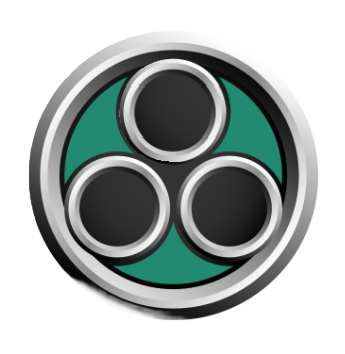
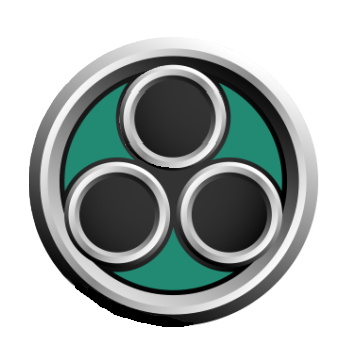
Resize some images, changed a few small UI elements.

diff --git a/lib/screens/counter_screen.dart b/lib/screens/counter_screen.dart
@@ -294,70 +294,104 @@ class _CounterScreenState extends State<CounterScreen> with TickerProviderStateM
   }
 
   Widget _buildFirstTurnChooser() {
-    return Container(
-      color: Colors.black.withValues(alpha: 0.85),
-      child: Center(
-        child: Column(
-          mainAxisSize: MainAxisSize.min,
-          children: [
-            // Player 1 "Go First" — rotated 180°
-            RotatedBox(
-              quarterTurns: 2,
+  return Container(
+    color: Colors.black.withValues(alpha: 0.85),
+    child: Center(
+      child: Column(
+        mainAxisSize: MainAxisSize.min,
+        children: [
+          // Player 1 "Go First" — rotated 180°
+          RotatedBox(
+            quarterTurns: 2,
+            child: SizedBox(
+              width: 300,
               child: ElevatedButton(
                 onPressed: () => _onFirstTurnDirectChoice(0),
                 style: ElevatedButton.styleFrom(
-                  backgroundColor: Colors.green,
-                  padding: EdgeInsets.symmetric(horizontal: 32, vertical: 16),
+                  backgroundColor: const Color.fromARGB(255, 60, 143, 63),
+                  padding: EdgeInsets.symmetric(horizontal: 16, vertical: 16),
                 ),
                 child: Text.rich(
                   TextSpan(children: [
                     TextSpan(text: '${widget.playerNames[0]}\n'),
                     TextSpan(text: 'Goes First'),
                   ]),
-                  style: TextStyle(fontSize: 20, color: Colors.white, fontWeight: FontWeight.bold),
                   textAlign: TextAlign.center,
+                  softWrap: true,
+                  style: TextStyle(
+                    fontSize: 20,
+                    color: Colors.white,
+                    fontWeight: FontWeight.bold,
+                  ),
                 ),
               ),
             ),
-            SizedBox(height: 32),
-            // Dice button — center
-            ElevatedButton(
+          ),
+
+          SizedBox(height: 32),
+
+          // Dice button — center
+          SizedBox(
+            width: 220,
+            child: ElevatedButton(
               onPressed: _showDiceRoll,
               style: ElevatedButton.styleFrom(
                 backgroundColor: Colors.grey[700],
-                padding: EdgeInsets.symmetric(horizontal: 32, vertical: 16),
+                padding: EdgeInsets.symmetric(horizontal: 16, vertical: 16),
               ),
               child: Row(
-                mainAxisSize: MainAxisSize.min,
+                mainAxisAlignment: MainAxisAlignment.center,
                 children: [
                   Icon(Icons.casino, color: Colors.white, size: 28),
                   SizedBox(width: 12),
-                  Text('Roll Dice', style: TextStyle(fontSize: 20, color: Colors.white, fontWeight: FontWeight.bold)),
+                  Flexible(
+                    child: Text(
+                      'Roll Dice',
+                      textAlign: TextAlign.center,
+                      softWrap: true,
+                      style: TextStyle(
+                        fontSize: 20,
+                        color: Colors.white,
+                        fontWeight: FontWeight.bold,
+                      ),
+                    ),
+                  ),
                 ],
               ),
             ),
-            SizedBox(height: 32),
-            // Player 2 "Go First" — normal orientation
-            ElevatedButton(
+          ),
+
+          SizedBox(height: 32),
+
+          // Player 2 "Go First" — normal orientation
+          SizedBox(
+            width: 300,
+            child: ElevatedButton(
               onPressed: () => _onFirstTurnDirectChoice(1),
               style: ElevatedButton.styleFrom(
-                backgroundColor: Colors.green,
-                padding: EdgeInsets.symmetric(horizontal: 32, vertical: 16),
+                backgroundColor: const Color.fromARGB(255, 60, 143, 63),
+                padding: EdgeInsets.symmetric(horizontal: 16, vertical: 16),
               ),
               child: Text.rich(
-                  TextSpan(children: [
-                    TextSpan(text: '${widget.playerNames[1]}\n'),
-                    TextSpan(text: 'Goes First'),
-                  ]),
-                  style: TextStyle(fontSize: 20, color: Colors.white, fontWeight: FontWeight.bold),
-                  textAlign: TextAlign.center,
+                TextSpan(children: [
+                  TextSpan(text: '${widget.playerNames[1]}\n'),
+                  TextSpan(text: 'Goes First'),
+                ]),
+                textAlign: TextAlign.center,
+                softWrap: true,
+                style: TextStyle(
+                  fontSize: 20,
+                  color: Colors.white,
+                  fontWeight: FontWeight.bold,
                 ),
+              ),
             ),
-          ],
-        ),
+          ),
+        ],
       ),
-    );
-  }
+    ),
+  );
+}
 
   @override
   void dispose() {
@@ -708,11 +742,21 @@ class _CounterScreenState extends State<CounterScreen> with TickerProviderStateM
                 if (hasTriggering) Icon(Icons.flash_on, size: 12, color: Colors.amber),
                 Padding(
                   padding: EdgeInsets.symmetric(horizontal: 2),
-                  child: Text(_categoryNames[cat] ?? '', style: TextStyle(fontSize: 10, fontWeight: FontWeight.bold, color: Colors.white), textAlign: TextAlign.center, maxLines: 1, overflow: TextOverflow.ellipsis),
+                  child: Stack(
+                    children: [
+                      Text(_categoryNames[cat] ?? '', style: TextStyle(fontSize: 14, fontWeight: FontWeight.bold, foreground: Paint()..style = PaintingStyle.stroke..strokeWidth = 1.5..color = Colors.black), textAlign: TextAlign.center, maxLines: 1, overflow: TextOverflow.ellipsis),
+                      Text(_categoryNames[cat] ?? '', style: TextStyle(fontSize: 14, fontWeight: FontWeight.bold, color: Colors.white), textAlign: TextAlign.center, maxLines: 1, overflow: TextOverflow.ellipsis),
+                    ],
+                  ),
                 ),
                 Expanded(
                   child: Center(
-                    child: Text('$count', style: TextStyle(fontSize: 24, fontWeight: FontWeight.bold, color: Colors.white)),
+                    child: Stack(
+                      children: [
+                        Text('$count', style: TextStyle(fontSize: 24, fontWeight: FontWeight.bold, foreground: Paint()..style = PaintingStyle.stroke..strokeWidth = 2..color = Colors.black)),
+                        Text('$count', style: TextStyle(fontSize: 24, fontWeight: FontWeight.bold, color: Colors.white)),
+                      ],
+                    ),
                   ),
                 ),
               ],
@@ -879,13 +923,18 @@ class _CounterScreenState extends State<CounterScreen> with TickerProviderStateM
                             }
                           }
                         }); },
-                        child: Center(child: Text('-', style: TextStyle(fontSize: 22, fontWeight: FontWeight.bold, color: Colors.white, fontFamily: 'InterExtraBold'))),
+                        child: Center(child: Stack(children: [
+                          Text('-', style: TextStyle(fontSize: 22, fontWeight: FontWeight.bold, fontFamily: 'Inter', foreground: Paint()..style = PaintingStyle.stroke..strokeWidth = 2..color = Colors.black)),
+                          Text('-', style: TextStyle(fontSize: 22, fontWeight: FontWeight.bold, color: Colors.white, fontFamily: 'Inter')),
+                        ])),
                       ),
                     ),
                     // Center: count/health
-                    Text(
-                      '$displayValue',
-                      style: TextStyle(fontSize: 24, fontWeight: FontWeight.w900, color: Colors.white, fontFamily: 'Inter'),
+                    Stack(
+                      children: [
+                        Text('$displayValue', style: TextStyle(fontSize: 24, fontWeight: FontWeight.w900, fontFamily: 'Inter', foreground: Paint()..style = PaintingStyle.stroke..strokeWidth = 2..color = Colors.black)),
+                        Text('$displayValue', style: TextStyle(fontSize: 24, fontWeight: FontWeight.w900, color: Colors.white, fontFamily: 'Inter')),
+                      ],
                     ),
                     // Right half: add
                     Expanded(
@@ -904,7 +953,10 @@ class _CounterScreenState extends State<CounterScreen> with TickerProviderStateM
                             }
                           }
                         }); },
-                        child: Center(child: Text('+', style: TextStyle(fontSize: 22, fontWeight: FontWeight.bold, color: Colors.white, fontFamily: 'InterExtraBold'))),
+                        child: Center(child: Stack(children: [
+                          Text('+', style: TextStyle(fontSize: 22, fontWeight: FontWeight.bold, fontFamily: 'Inter', foreground: Paint()..style = PaintingStyle.stroke..strokeWidth = 2..color = Colors.black)),
+                          Text('+', style: TextStyle(fontSize: 22, fontWeight: FontWeight.bold, color: Colors.white, fontFamily: 'Inter')),
+                        ])),
                       ),
                     ),
                   ],
@@ -1240,10 +1292,13 @@ class _CounterScreenState extends State<CounterScreen> with TickerProviderStateM
         children: [
           // Pitch icon background
           Positioned.fill(
-            child: Image.asset(
-              pitchIconPath,
-              fit: BoxFit.cover,
+            child: Transform.scale(
+              scale: 1.3,
+              child: Image.asset(
+                pitchIconPath,
+                fit: BoxFit.contain,
               errorBuilder: (c, e, s) => Container(color: Colors.black.withValues(alpha: 0.5)),
+              ),
             ),
           ),
           // Dark overlay
@@ -1261,15 +1316,24 @@ class _CounterScreenState extends State<CounterScreen> with TickerProviderStateM
             children: [
               GestureDetector(
                 onTap: () { if (_playerPitch[playerIndex] > 0) setState(() { _playerPitch[playerIndex]--; }); },
-                child: Icon(Icons.remove, size: iconSize, color: pitchColor),
-              ),
-              Padding(
-                padding: EdgeInsets.symmetric(horizontal: 4),
-                child: Text('${_playerPitch[playerIndex]}', style: TextStyle(fontSize: numSize, fontWeight: FontWeight.bold, color: pitchColor, height: 1.0)),
-              ),
-              GestureDetector(
-                onTap: () { if (_playerPitch[playerIndex] < 99) setState(() { _playerPitch[playerIndex]++; }); },
-                child: Icon(Icons.add, size: iconSize, color: pitchColor),
+                child: Stack(children: [
+                Icon(Icons.remove, size: iconSize, color: Colors.black),
+                Icon(Icons.remove, size: iconSize, color: pitchColor),
+              ]),
+            ),
+            Padding(
+              padding: EdgeInsets.symmetric(horizontal: 4),
+              child: Stack(children: [
+                Text('${_playerPitch[playerIndex]}', style: TextStyle(fontSize: numSize, fontWeight: FontWeight.bold, height: 1.0, foreground: Paint()..style = PaintingStyle.stroke..strokeWidth = 2..color = Colors.black)),
+                Text('${_playerPitch[playerIndex]}', style: TextStyle(fontSize: numSize, fontWeight: FontWeight.bold, color: pitchColor, height: 1.0)),
+              ]),
+            ),
+            GestureDetector(
+              onTap: () { if (_playerPitch[playerIndex] < 99) setState(() { _playerPitch[playerIndex]++; }); },
+              child: Stack(children: [
+                Icon(Icons.add, size: iconSize, color: Colors.black),
+                Icon(Icons.add, size: iconSize, color: pitchColor),
+              ]),
               ),
             ],
           ),
@@ -1644,7 +1708,7 @@ class _InlineTokenPickerState extends State<_InlineTokenPicker> {
           scrollDirection: Axis.horizontal,
           child: Row(children: [
             for (var c in [TokenCategory.boonAura, TokenCategory.debuffAura, TokenCategory.item, TokenCategory.ally])
-              Padding(padding: EdgeInsets.only(right: 4), child: FilterChip(label: Text(catNames[c] ?? '', style: TextStyle(fontSize: 11)), selected: selectedCategories.contains(c), showCheckmark: false, onSelected: (_) { setState(() { selectedCategories.contains(c) ? selectedCategories.remove(c) : selectedCategories.add(c); }); }, visualDensity: VisualDensity.compact)),
+              Padding(padding: EdgeInsets.only(right: 4), child: FilterChip(label: Text(catNames[c] ?? '', style: TextStyle(fontSize: 14)), selected: selectedCategories.contains(c), showCheckmark: false, onSelected: (_) { setState(() { selectedCategories.contains(c) ? selectedCategories.remove(c) : selectedCategories.add(c); }); }, visualDensity: VisualDensity.compact)),
           ]),
         ),
         SizedBox(height: 6),

diff --git a/lib/screens/widgets/dice_overlay.dart b/lib/screens/widgets/dice_overlay.dart
@@ -82,13 +82,13 @@ class _DiceOverlayState extends State<DiceOverlay> {
       children: [
         ElevatedButton(
           onPressed: () => widget.onChoice(_winner, true),
-          style: ElevatedButton.styleFrom(backgroundColor: Colors.green, padding: EdgeInsets.symmetric(horizontal: 24, vertical: 12)),
+          style: ElevatedButton.styleFrom(backgroundColor: const Color.fromARGB(255, 60, 143, 63), padding: EdgeInsets.symmetric(horizontal: 24, vertical: 12)),
           child: Text('Go First', style: TextStyle(fontSize: 18, color: Colors.white)),
         ),
         SizedBox(width: 24),
         ElevatedButton(
           onPressed: () => widget.onChoice(_winner, false),
-          style: ElevatedButton.styleFrom(backgroundColor: Colors.blue, padding: EdgeInsets.symmetric(horizontal: 24, vertical: 12)),
+          style: ElevatedButton.styleFrom(backgroundColor: const Color.fromARGB(255, 52, 120, 175), padding: EdgeInsets.symmetric(horizontal: 24, vertical: 12)),
           child: Text('Go Second', style: TextStyle(fontSize: 18, color: Colors.white)),
         ),
       ],

diff --git a/lib/screens/setup_screen.dart b/lib/screens/setup_screen.dart
@@ -300,6 +300,7 @@ class _SetupScreenState extends State<SetupScreen> {
                           ),
 
                         // --- Match Timer ---
+                        if (settings.clockEnabled) ...[
                         SizedBox(height: 36),
                         Text('Match Timer', style: headingStyle),
                         SizedBox(height: 12),
@@ -353,6 +354,7 @@ class _SetupScreenState extends State<SetupScreen> {
                         ),
 
                         // --- Start Game ---
+                        ],
                         SizedBox(height: 48),
                         GestureDetector(
                           onTap: selectedLife >= 1

diff --git a/lib/providers/game_settings_provider.dart b/lib/providers/game_settings_provider.dart
@@ -9,8 +9,8 @@ class GameSettingsProvider extends ChangeNotifier {
   ThemeMode themeMode = ThemeMode.system;
   int matchTimerMinutes = 50;
   int startingLife = 20;
-  int resourceTrackerSetting = 0; // 0=Both, 1=AP Only, 2=Pitch Only, 3=None
-  bool armorTrackingEnabled = true;
+  int resourceTrackerSetting = 3; // 0=Both, 1=AP Only, 2=Pitch Only, 3=None
+  bool armorTrackingEnabled = false;
   String player1Name = 'Player 1';
   String player2Name = 'Player 2';
   String? player1HeroId;
